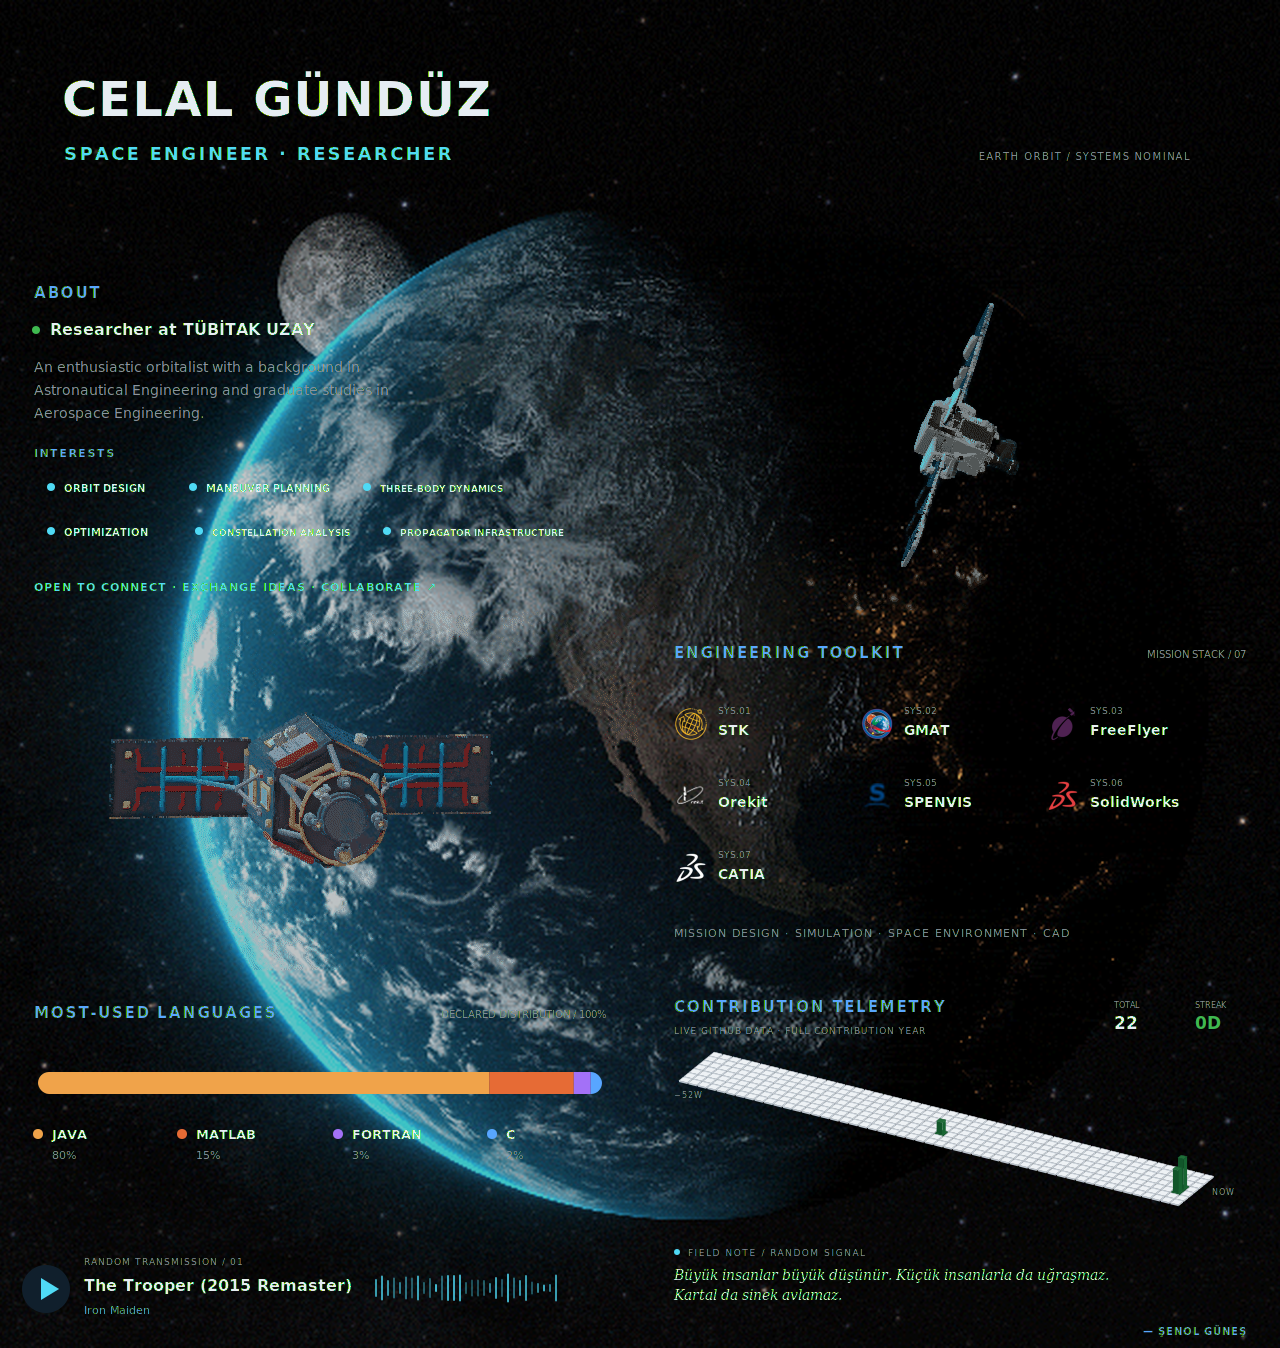
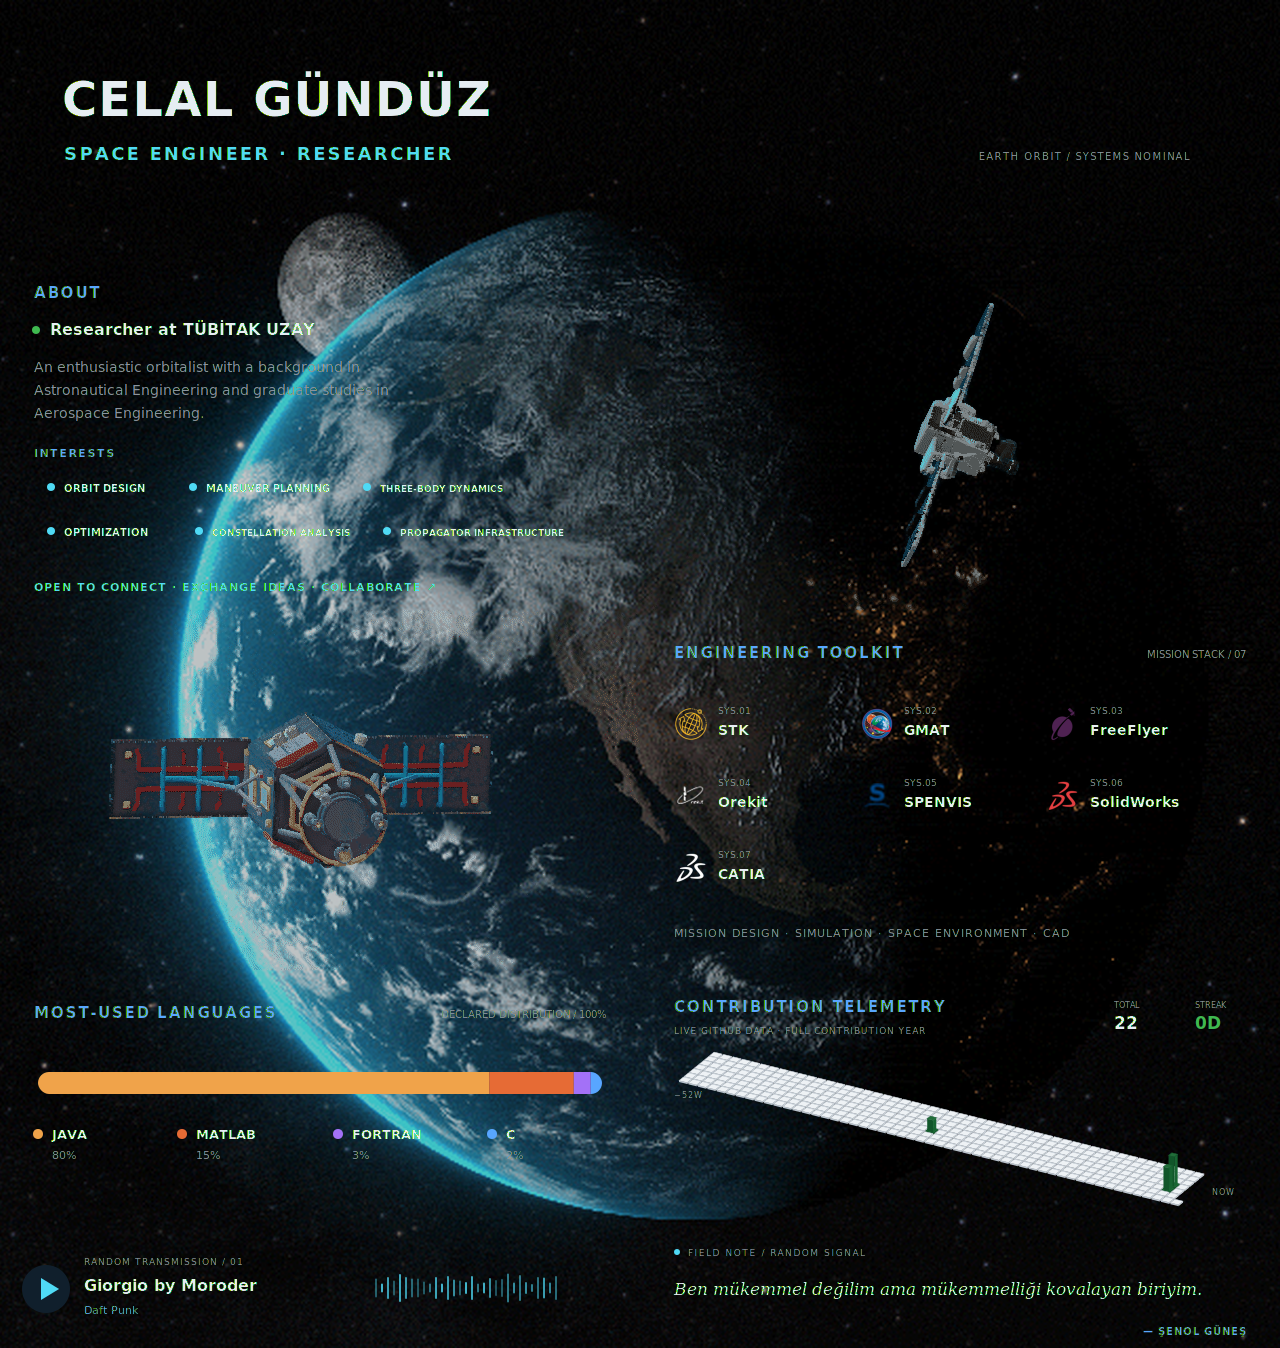
chore: refresh mission console

diff --git a/README.md b/README.md
@@ -7,5 +7,5 @@
 <p align="center">
   <a href="https://www.linkedin.com/in/celalgunduz/"><strong>COLLABORATE ↗</strong></a>
   &nbsp;&nbsp;·&nbsp;&nbsp;
-  <a href="https://music.youtube.com/watch?v=W4DfbinBgL4"><strong>♫ The Trooper (2015 Remaster) ↗</strong></a>
+  <a href="https://music.youtube.com/watch?v=ZFZM6jDTWd4"><strong>♫ Giorgio by Moroder ↗</strong></a>
 </p>
